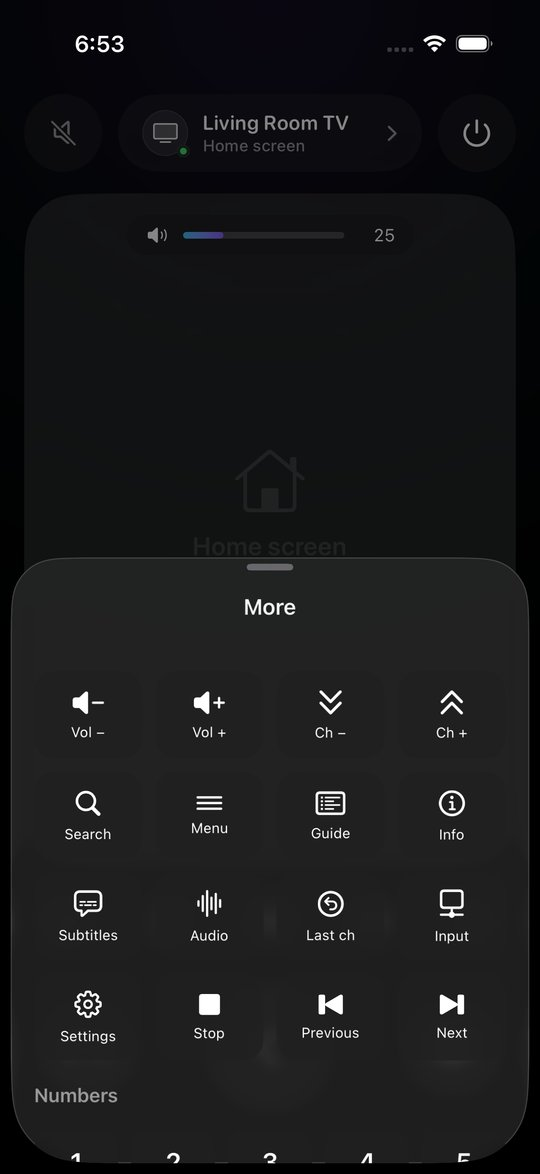
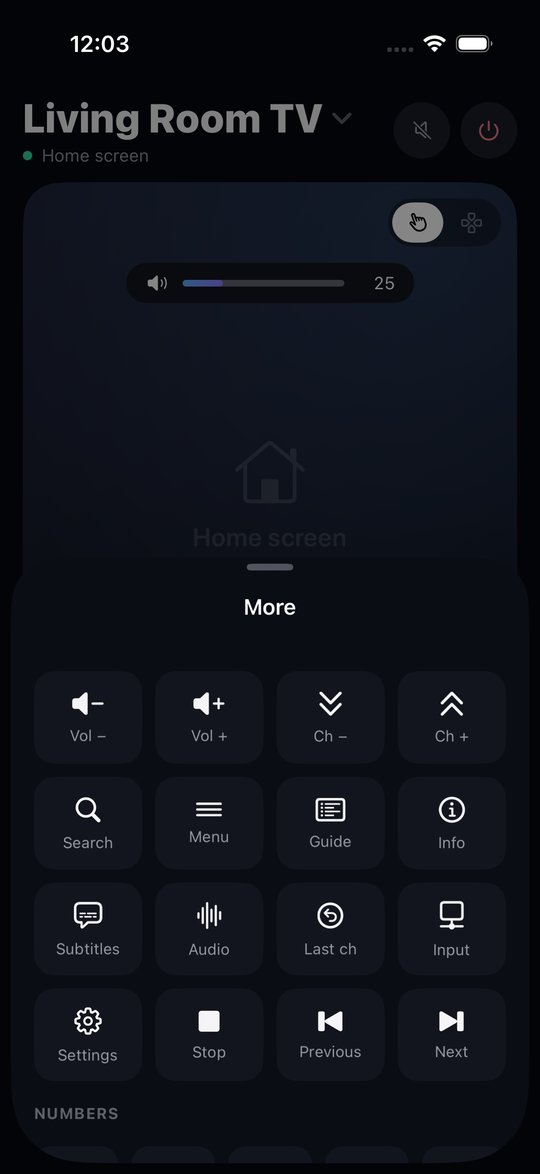
README: new screenshots (channel card, arrows, channels) and features
The iOS UI test now checks the typed text as a whole (it arrives as the
keys are typed) and takes a screenshot of the channel card.

diff --git a/ios/UITests/GoatRemoteUITests.swift b/ios/UITests/GoatRemoteUITests.swift
@@ -122,14 +122,13 @@ final class GoatRemoteUITests: XCTestCase {
         pause(0.5)
         shot("channel-played")
 
-        // Fechada a folha, o comando mostra o canal do GoatTV (com o programa do /now) por cima das setas.
+        // Fechada a folha, o comando mostra o canal do GoatTV, com o programa do /now.
         app.swipeDown()
         pause(0.6)
         if app.buttons["channel:News 24"].firstMatch.exists { app.swipeDown() }
         XCTAssertTrue(app.descendants(matching: .any)["now-card"].waitForExistence(timeout: 10), "O cartão do canal não apareceu")
-        app.buttons["layout:dpad"].tap()
         pause(1.5)
-        shot("now-dpad")
+        shot("now-card")
 
         // O que a TV falsa recebeu.
         let log = fetch("log") ?? ""
@@ -139,10 +138,13 @@ final class GoatRemoteUITests: XCTestCase {
         add(attachment)
         for expected in ["emparelhado", "tecla DPAD_CENTER", "tecla DPAD_UP", "tecla DPAD_DOWN", "tecla DPAD_LEFT", "tecla DPAD_RIGHT",
                          "tecla DPAD_CENTER (início)", "tecla DPAD_CENTER (fim)", "tecla MEDIA_PLAY_PAUSE", "tecla BACK", "tecla HOME",
-                         "launcher /volume/mute", "launcher /volume/up", "tecla SEARCH", "texto hello", "tecla ENTER",
+                         "launcher /volume/mute", "launcher /volume/up", "tecla SEARCH", "tecla ENTER",
                          "launcher /open/com.google.android.youtube.tv", "launcher /apps", "launcher /icon/cc.slokker.itv"] {
             XCTAssertTrue(log.contains(expected), "Falta no registo da TV: \(expected)")
         }
+        // O texto vai à medida que se escreve (o simulador escreve uma tecla de cada vez): juntas, as partes dão "hello".
+        let typed = log.components(separatedBy: "\n").filter { $0.hasPrefix("texto ") }.map { String($0.dropFirst(6)) }.joined()
+        XCTAssertEqual(typed, "hello", "O texto que chegou à TV")
         // Linhas inteiras: o primeiro /play deu 409, o launcher abriu o GoatTV e o segundo mudou de canal.
         let lines = log.components(separatedBy: "\n")
         for expected in ["goattv /channels", "goattv /logo/rtp1", "goattv /play/news 24/hd 409", "launcher /open/cc.slokker.itv",

diff --git a/README.md b/README.md
@@ -5,10 +5,10 @@ remote. All the TVs at home show up in one list, so switching between them is on
 
 ## Screenshots
 
-| | | |
-|---|---|---|
-| ![Remote](docs/screenshots/remote.jpg) | ![Apps](docs/screenshots/apps.jpg) | ![More](docs/screenshots/more.jpg) |
-| ![Keyboard](docs/screenshots/keyboard.jpg) | ![Add a TV](docs/screenshots/add-tv.jpg) | ![Pairing](docs/screenshots/pairing.jpg) |
+| | | | |
+|---|---|---|---|
+| ![Remote](docs/screenshots/remote.jpg) | ![GoatTV channel](docs/screenshots/channel.jpg) | ![Arrows](docs/screenshots/dpad.jpg) | ![Channels](docs/screenshots/channels.jpg) |
+| ![Apps](docs/screenshots/apps.jpg) | ![More](docs/screenshots/more.jpg) | ![Keyboard](docs/screenshots/keyboard.jpg) | ![Add a TV](docs/screenshots/add-tv.jpg) |
 
 iPhone screenshots against the fake TV used in the tests. The Android app looks the same.
 
@@ -17,7 +17,8 @@ iPhone screenshots against the fake TV used in the tests. The Android app looks 
 - **Finds the TVs** on your home network (Android TV, Google TV and Apple TV) and pairs with the code shown on
   the TV: Android TV with the same protocol as the Google TV app, Apple TV with the one Apple's remote uses (a
   4-digit PIN). It works with any app on the TV, not only ours.
-- **Touch surface**: swipe to move, tap to select, hold for a long press, or turn on arrows on the edges.
+- **Touch surface or arrows**: swipe to move, tap to select, hold for a long press; or switch to a ring of arrows
+  with OK in the middle, like a physical remote (holding an arrow repeats it). The app remembers your choice.
 - **Buttons**: play/pause, back, home, power, mute, rewind and fast forward; under More, volume, channels, search,
   guide, info, subtitles, audio track, last channel, input, settings, stop, previous, next and the numbers.
 - **Volume**: the phone's volume buttons change the TV's volume while the app is open. With GoatLauncher on the
@@ -29,7 +30,8 @@ iPhone screenshots against the fake TV used in the tests. The Android app looks 
   up with their banners; without it, the apps you've opened on that TV. On Apple TV, the TV's own app list, with
   App Store icons.
 - **Channels**: with GoatTV on the TV, its channel list (current, favourites, search and groups) with logos; tap a
-  channel to switch to it, opening GoatTV first if needed.
+  channel to switch to it, opening GoatTV first if needed. While GoatTV is playing, a card at the top shows the
+  channel and what's on (with GoatTV 0.9.17 or newer), with buttons for the next and previous channel.
 - **Several TVs**, and on the iPhone, Siri and Shortcuts ("press a TV button").
 - **Quick access**: a home screen widget and, on Android, Quick Settings tiles.
 - English and Portuguese.
